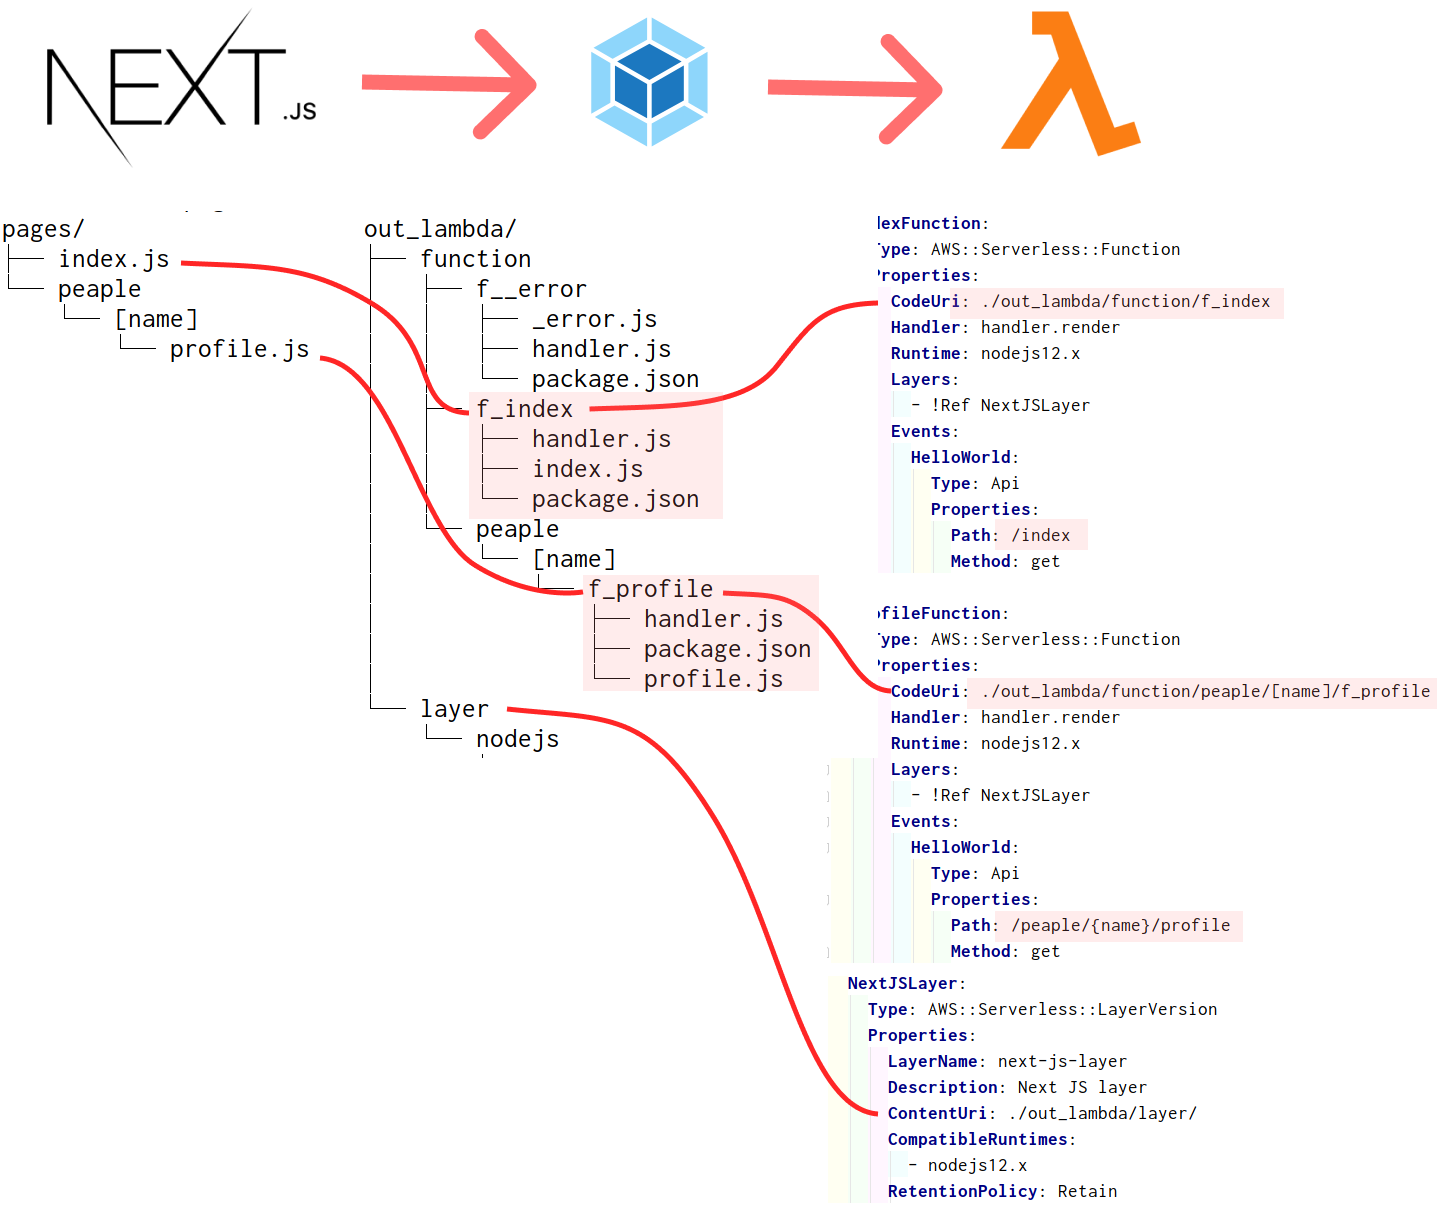
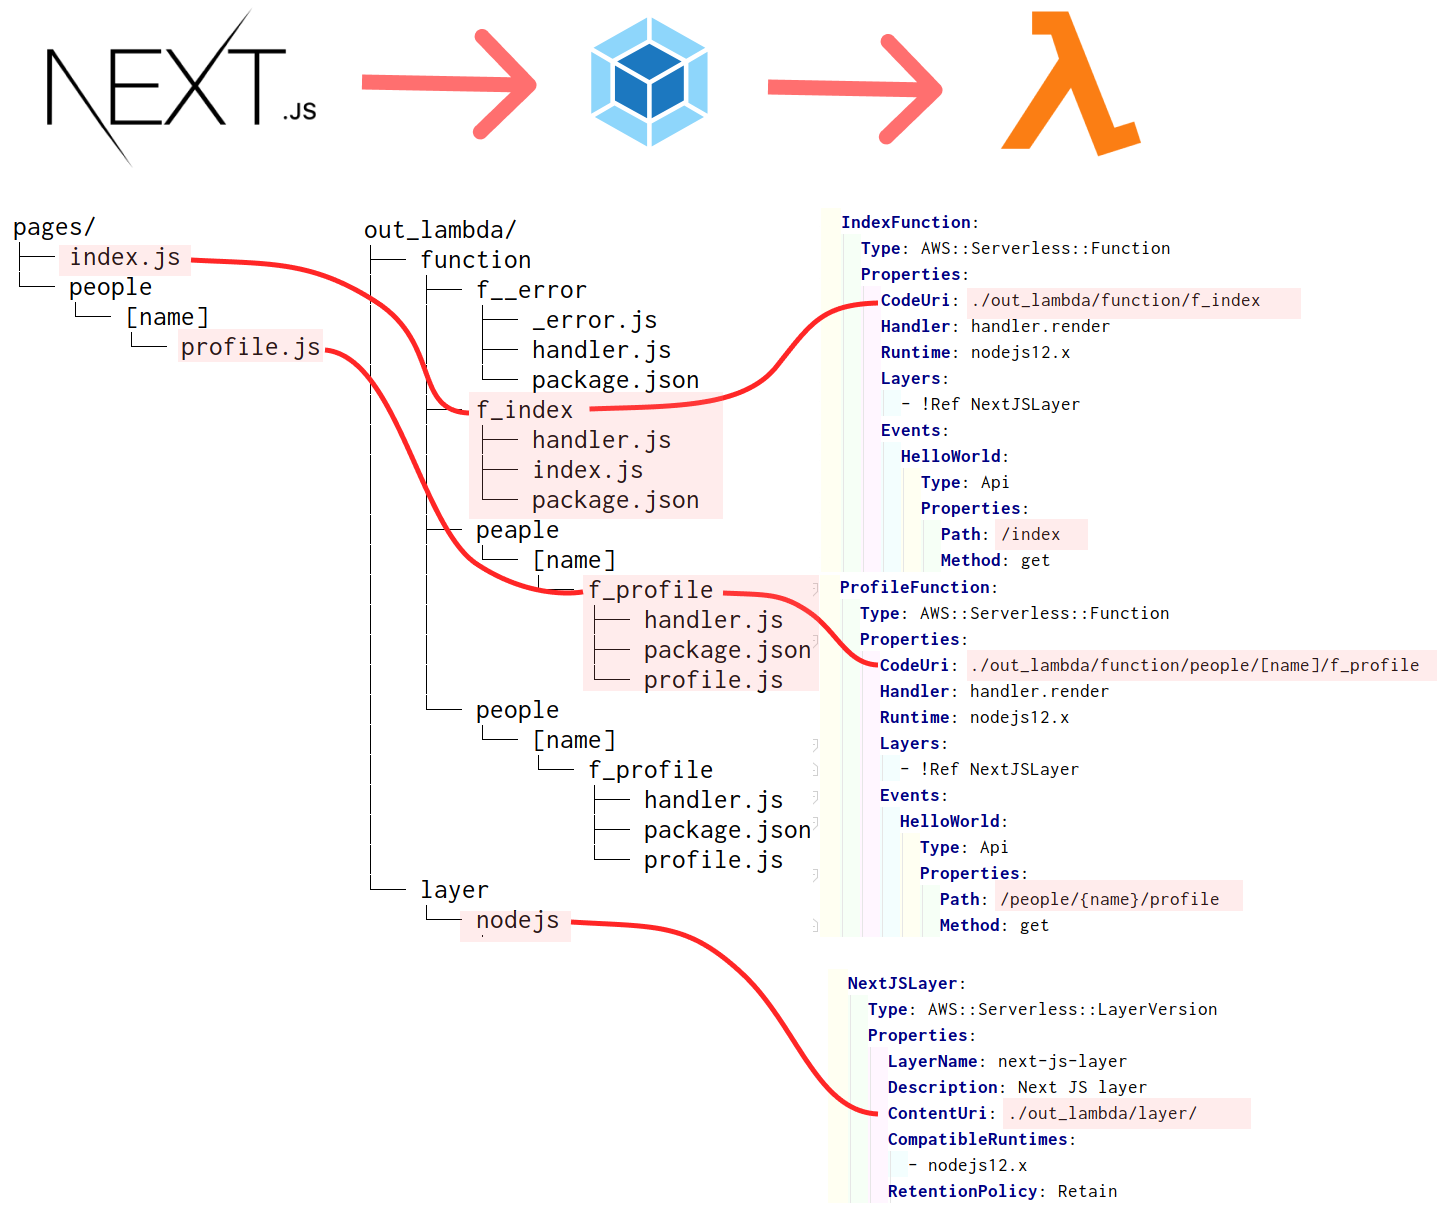
typo

diff --git a/example/pages/index.js b/example/pages/index.js
@@ -3,7 +3,7 @@ import Link from 'next/link'
 
 const Home = () => {
     return <>
-        From Aws Lambda <Link href="/peaple/paul/profile"><a>Paul profile</a></Link>
+        From Aws Lambda <Link href="/people/paul/profile"><a>Paul profile</a></Link>
     </>
 };
 
